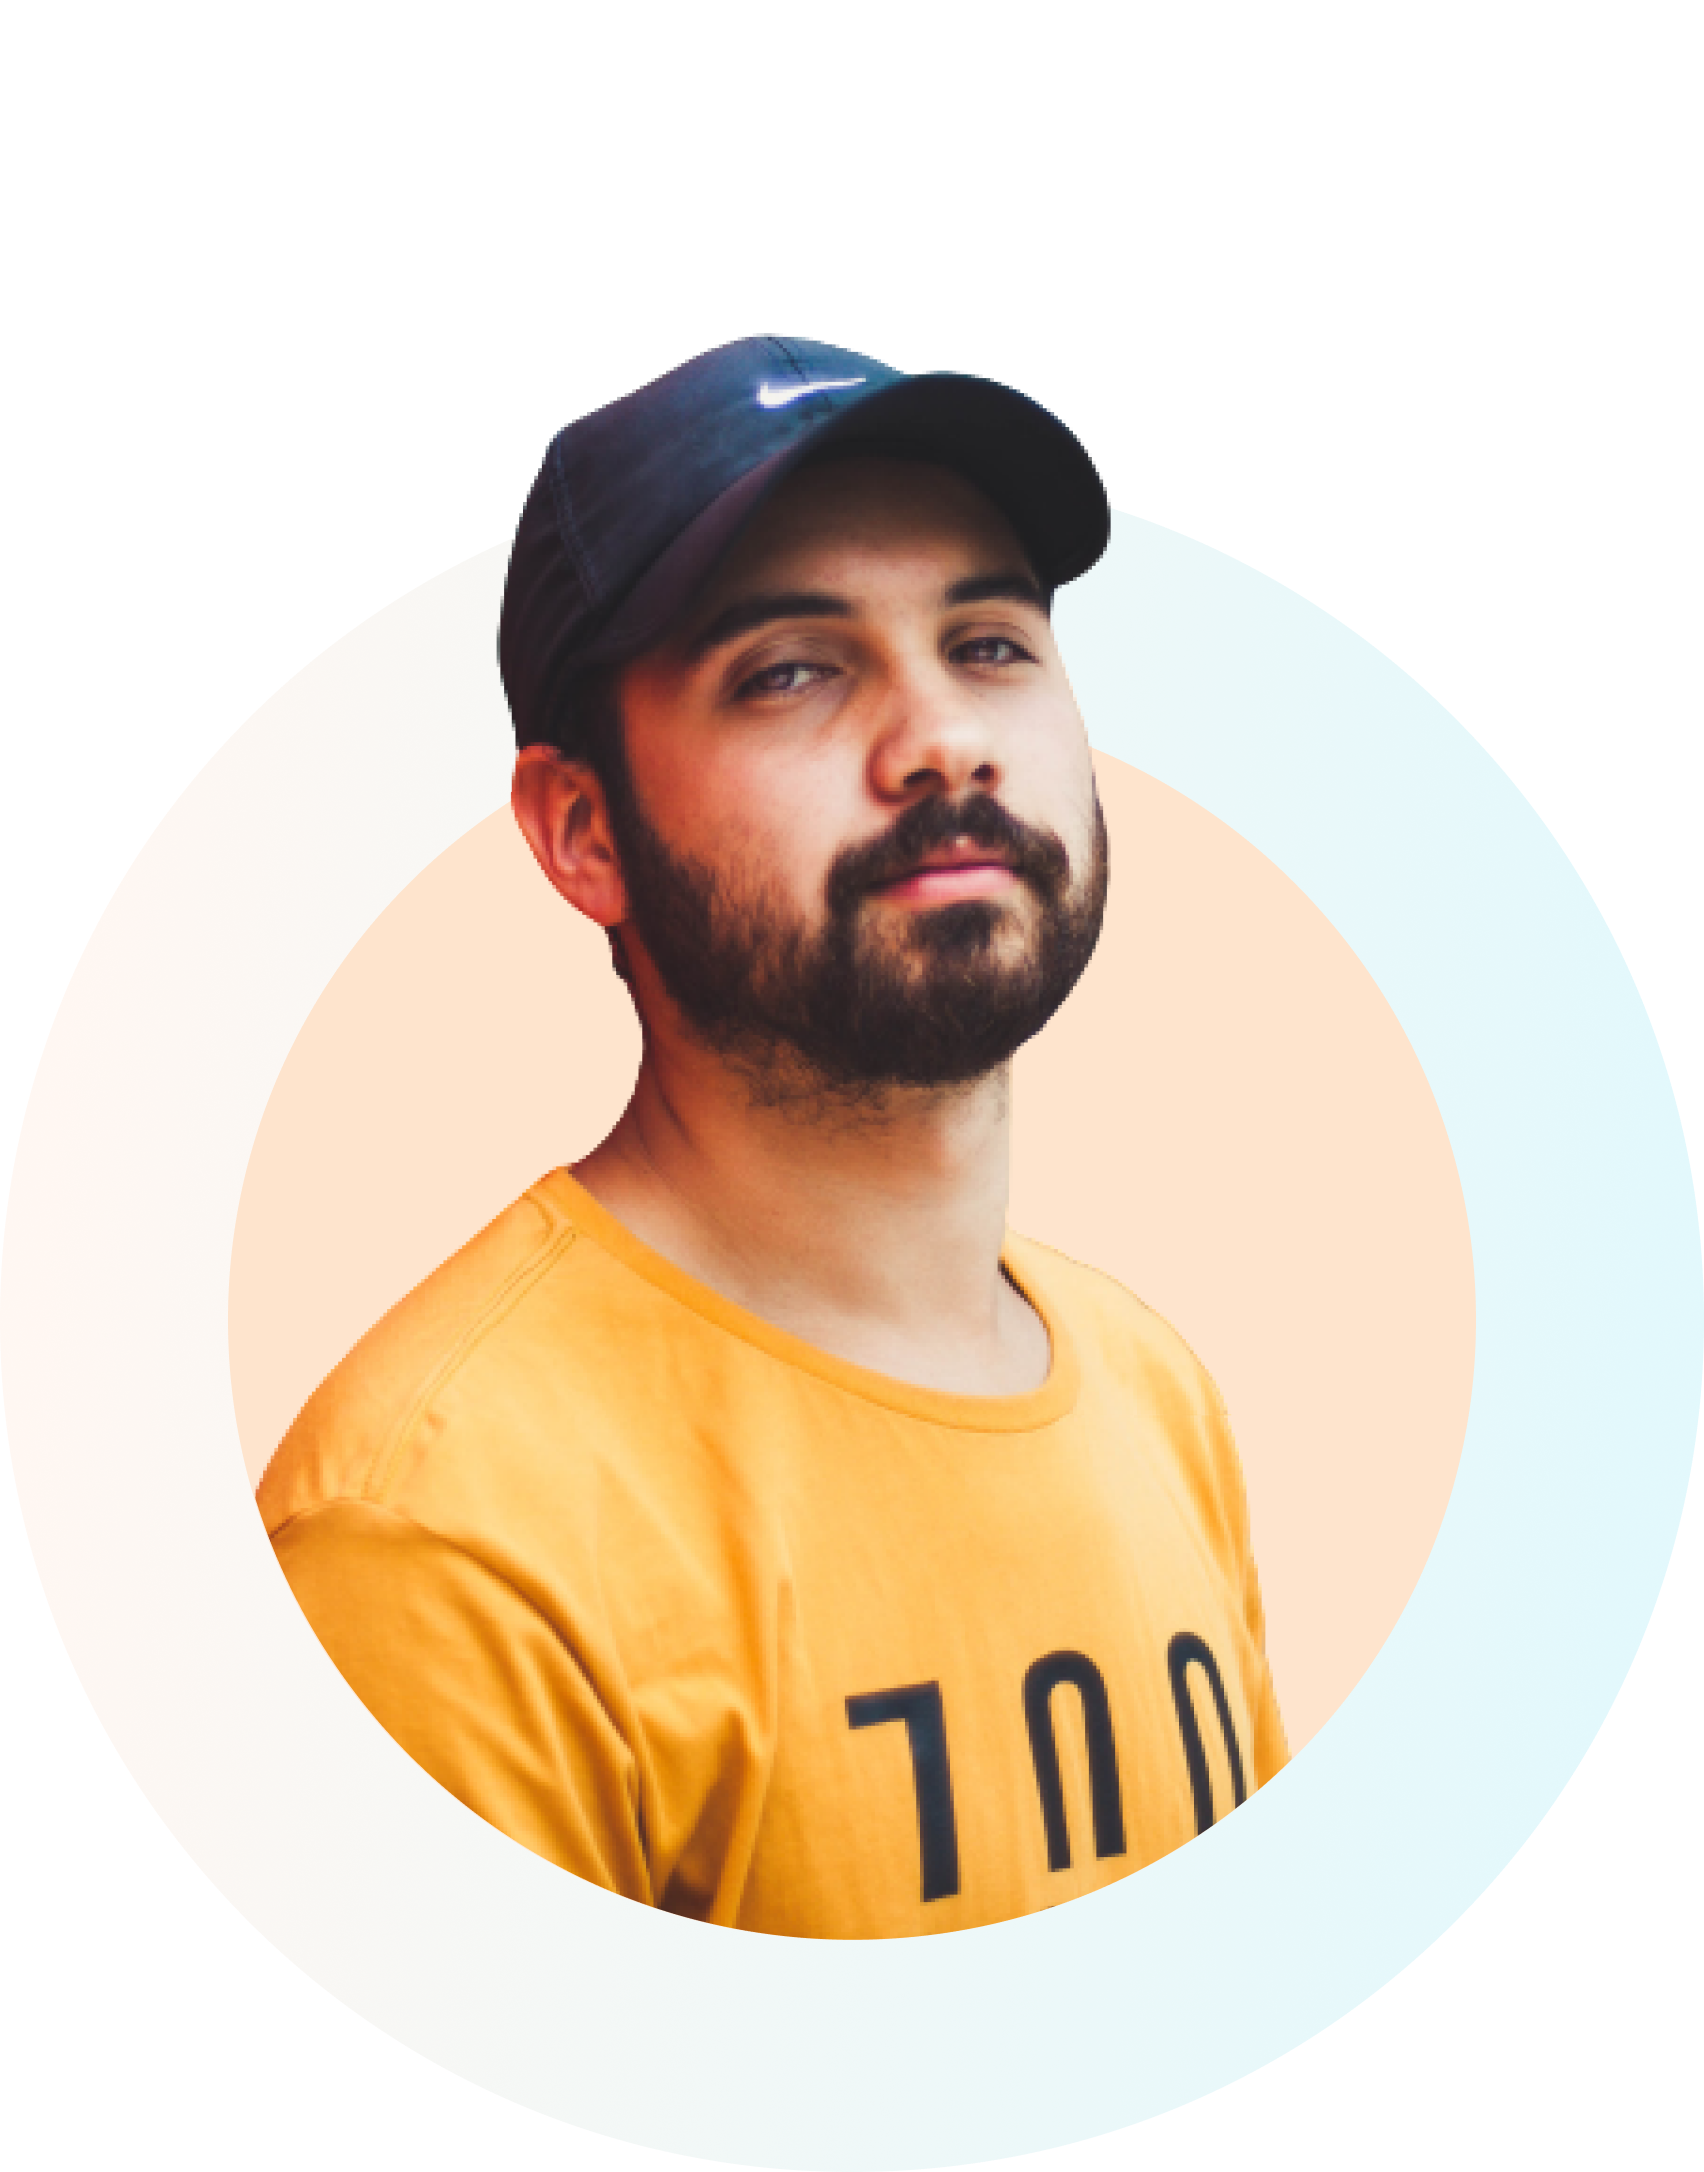
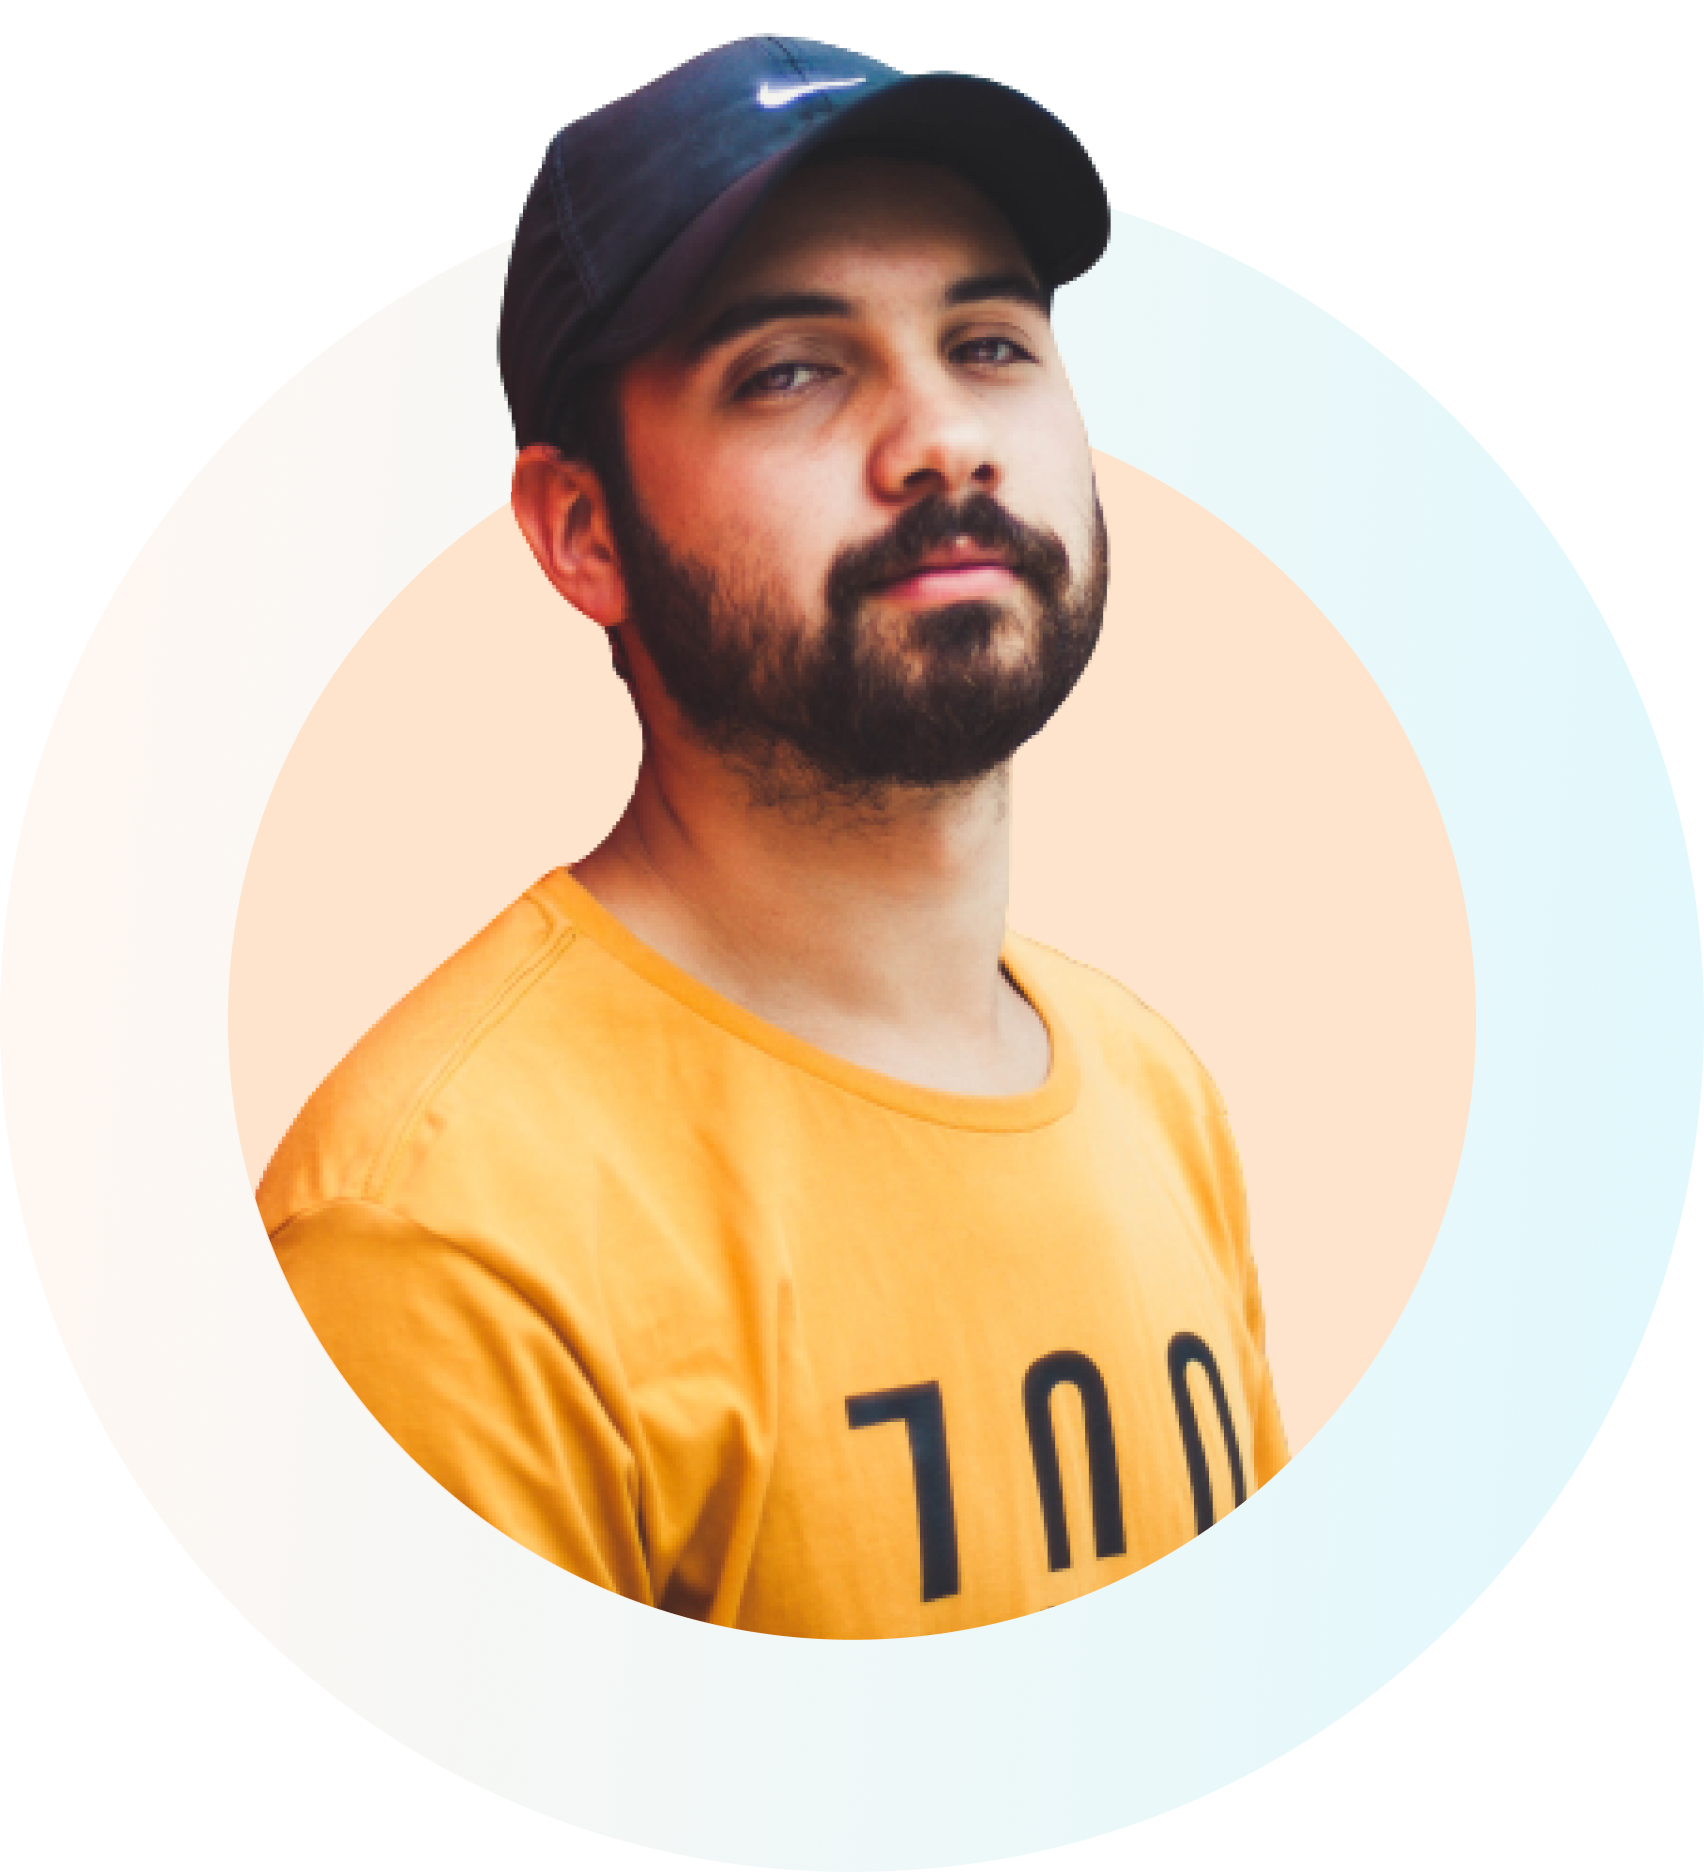
complete first section

diff --git a/index.html b/index.html
@@ -17,19 +17,19 @@
 </head>
 
 <body>
-    <section>
-        <div>
-            <div>
+    <section class="top-section">
+        <div class="half-width">
+            <div class="left-line">
                 <h1>Stay Focused on </h1>
-                <h1><span>Mission 2022</span></h1>
+                <h1><span class="salmon">Mission 2022</span></h1>
             </div>
             <p>It expresses my vision for where i want to be in the future and it reflects my values, goals, and purpose
                 and how i want to operate.</p>
-            <a target="_blank" href="">Explore Now</a>
-            <p>scroll down to explore more about us</p>
+            <a class="link-btn" target="_blank" href="">Explore Now</a>
+            <p><small>scroll down to explore more about us</small></p>
         </div>
-        <div>
-            <img src="images/person/person-3.png" alt="">
+        <div class="half-width">
+            <img src="images/person/person-2.png" alt="">
         </div>
     </section>
 </body>

diff --git a/style.css b/style.css
@@ -5,3 +5,47 @@ font-family: 'Redressed', cursive;
 font-family: 'Roboto', sans-serif;
 font-family: 'Roboto Slab', serif;
 }
+h1{
+    font-size: 50px;
+}
+p{
+    margin-top: 20px;
+    margin-bottom: 40px;
+}
+
+.link-btn{
+    text-decoration: none;
+    padding: 10px 30px;
+    background-color: darkorange;
+    border-radius: 8px;
+    
+}
+
+.salmon{
+    color: salmon;
+}
+
+.half-width{
+    width: 40%;
+    margin-left: 5%;
+    margin-right: 5%;
+}
+
+.top-section{
+    display: flex;
+    margin: 20px;
+}
+
+img{
+    width: 80%;
+}
+
+.left-line{
+    border-left: 4px solid;
+    border-image: linear-gradient(salmon,Red);
+    border-image-slice: 1;
+}
+.left-line h1{
+    margin-left: 20px;
+}
+
